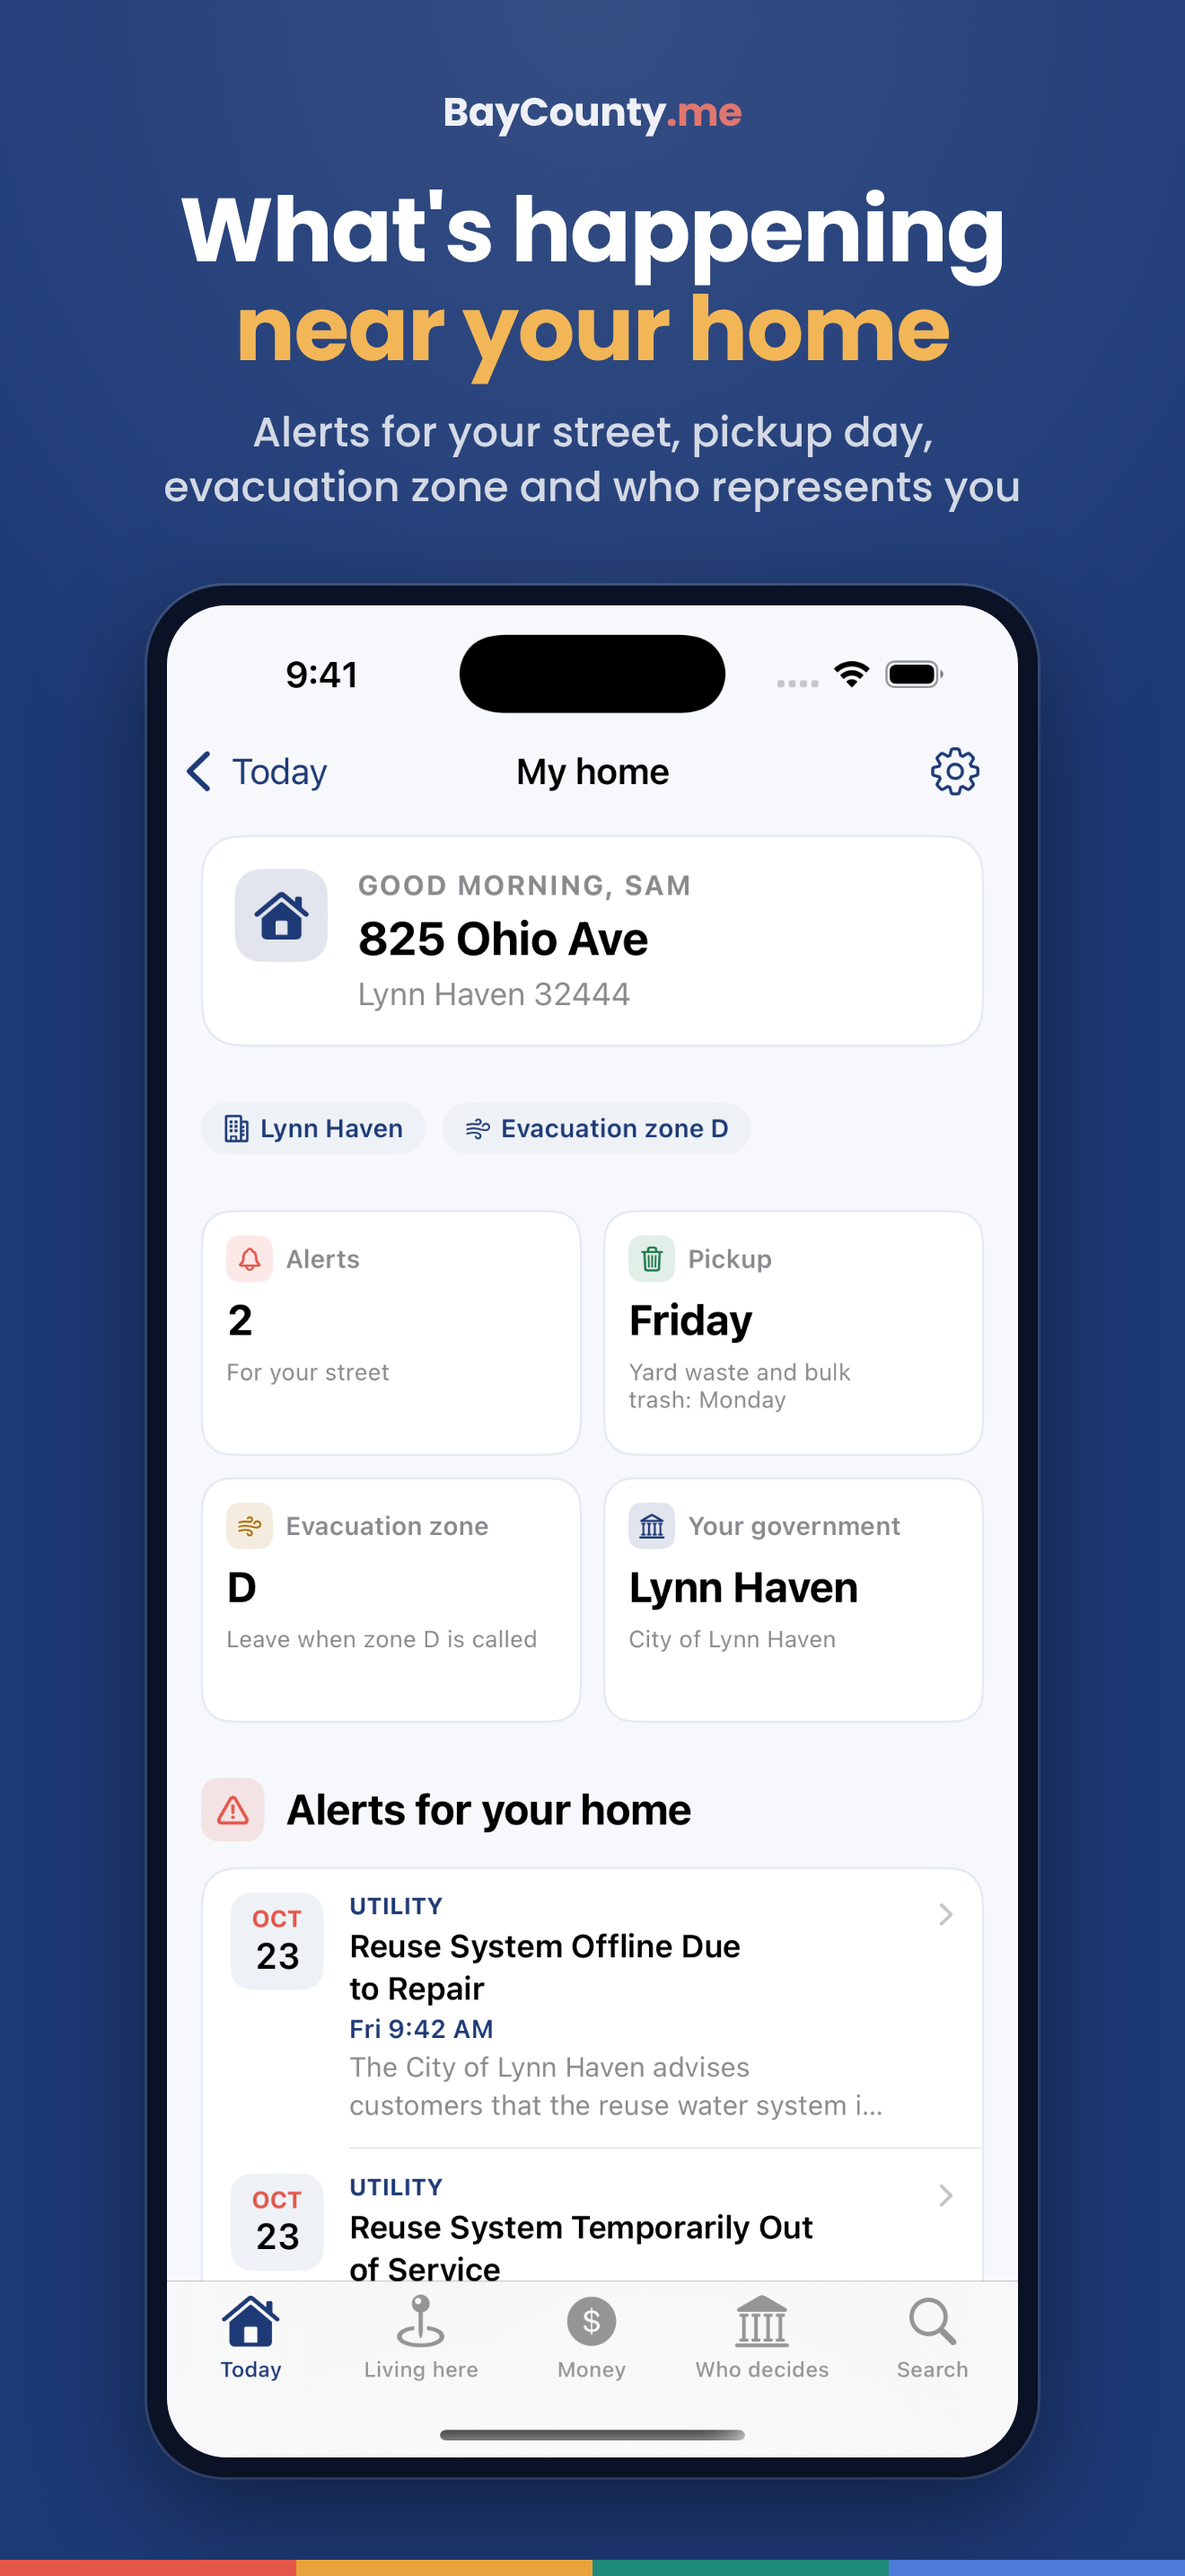
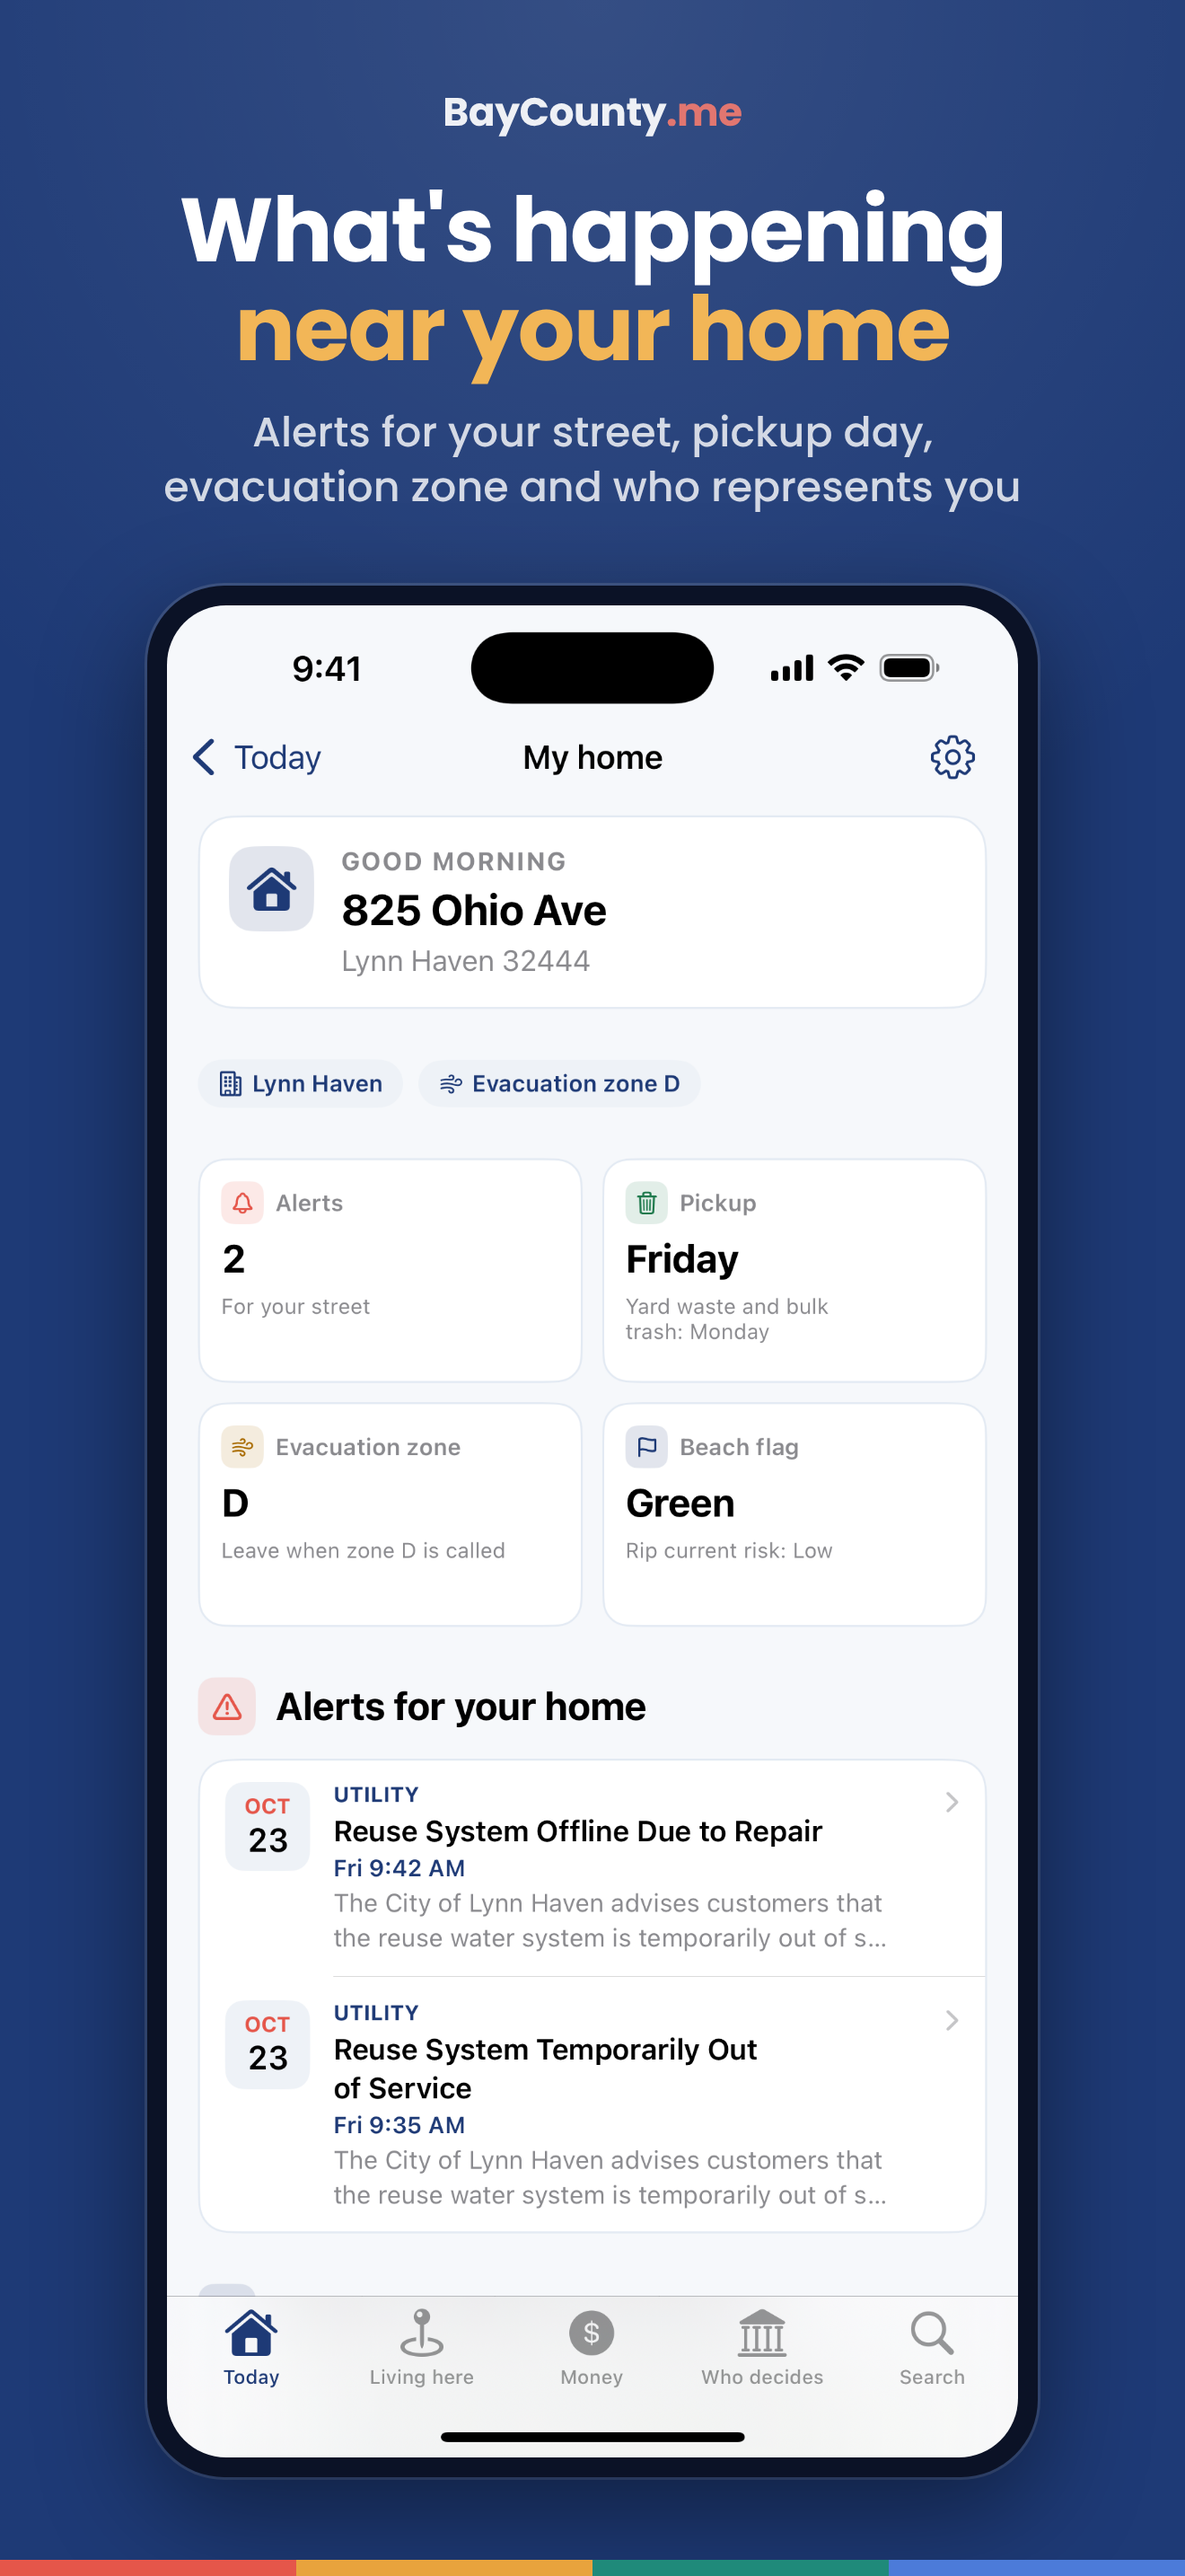
New iPhone store screenshots with made-up demo data (no real people or businesses)
Claude-Session: https://claude.ai/code/session_01HUBaQrnQzc4wmcUB5UGrtg

diff --git a/android/store/listing.md b/android/store/listing.md
@@ -62,7 +62,7 @@ Education (or News & Magazines)
 
 - App icon: `icon-512.png` (512 × 512)
 - Feature graphic: `feature-graphic.png` (1024 × 500)
-- Phone screenshots: `screenshots/` (1080 × 1920 each, a caption over the live app, made with `ios/scripts/store_screenshots.js` from the Android workflow's `screens-emulator` shots). Upload in order; Play shows the first three most.
+- Phone screenshots: `screenshots/` (8 shots, 1080 × 1920, a caption over the app). They're taken with made-up demo data by `.github/workflows/store-screenshots.yml` (restaurants, inspections and the beach day are invented; no real person or business is named) and framed with `ios/scripts/store_screenshots.js`. Upload in order; Play shows the first three most.
 
 ## Production release notes (500 characters max)
 

diff --git a/ios/store/listing.md b/ios/store/listing.md
@@ -123,3 +123,8 @@ Expected rating: **4+**.
 
 `screenshots/` holds the 6.9" iPhone set (9 shots, 1320 × 2868), which App Store Connect scales down for every
 smaller iPhone. Upload in order; the first three show in search results.
+
+They're taken with made-up demo data (`.github/workflows/store-screenshots.yml` runs the app against
+`store/demo_server.py`): the restaurants, inspections and beach day are invented, and no real person or business is
+named. Events, meetings and tax rates are the live site's. Captions are in `captions.json`; frame new shots with
+`node ios/scripts/store_screenshots.js <spec.json>`.
